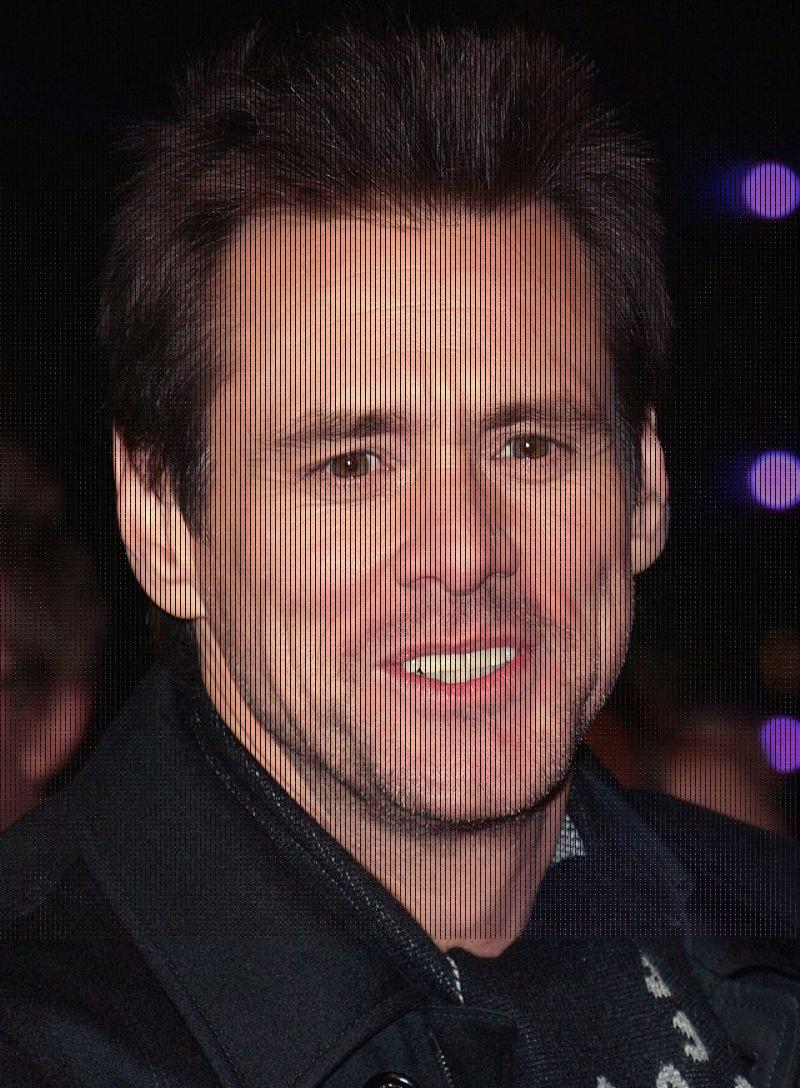
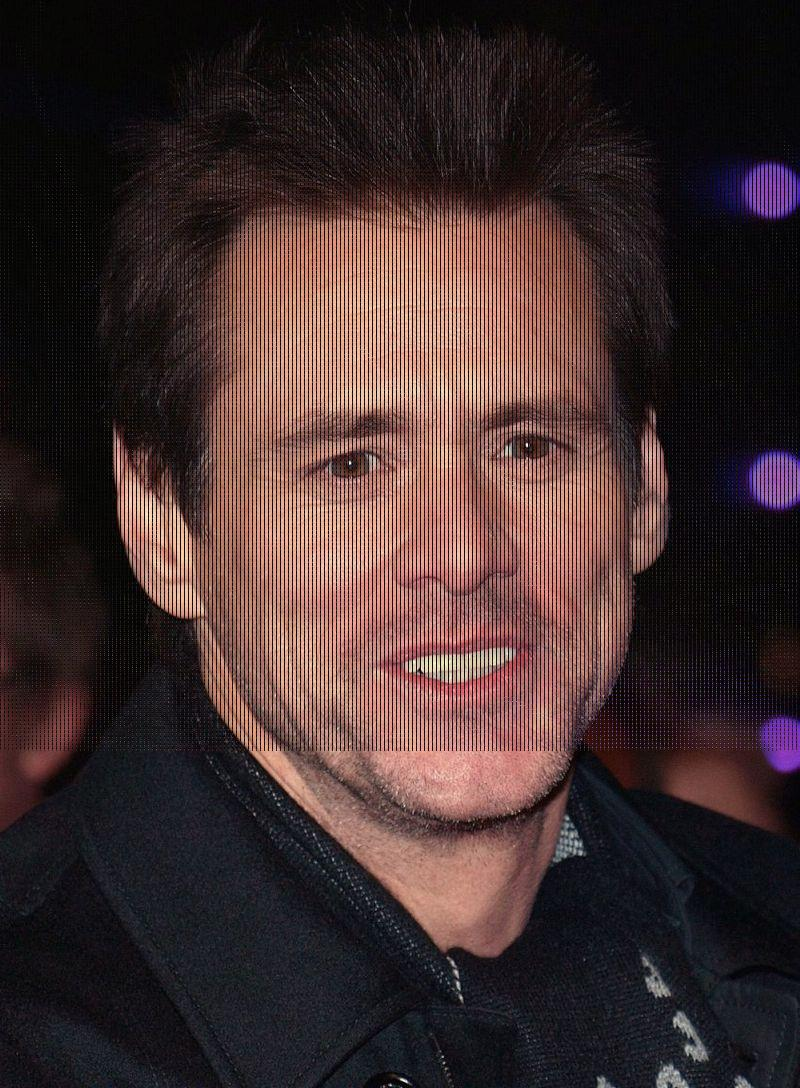
Added in column skipping ability to attempt to make the encoded pixels to not create lines on the image. Not sure it's working though.

diff --git a/encodeImage.py b/encodeImage.py
@@ -224,6 +224,8 @@ def getPixelLocations(img, nbPixelsNeeded):
 
   # Periodicity = How many pixels between an encoded pixel.
   period = nbPxlAvailable // nbPixelsNeeded
+  if (w % period == 0) and period > 1:
+    period -= 1
 
   loc = []
   for i in range(h):
@@ -253,6 +255,7 @@ def main():
 ################################################################################
 # Admin
 ################################################################################
+
 imageIO = 'jim.jpg'
 textIO = 'othello.txt'
 
